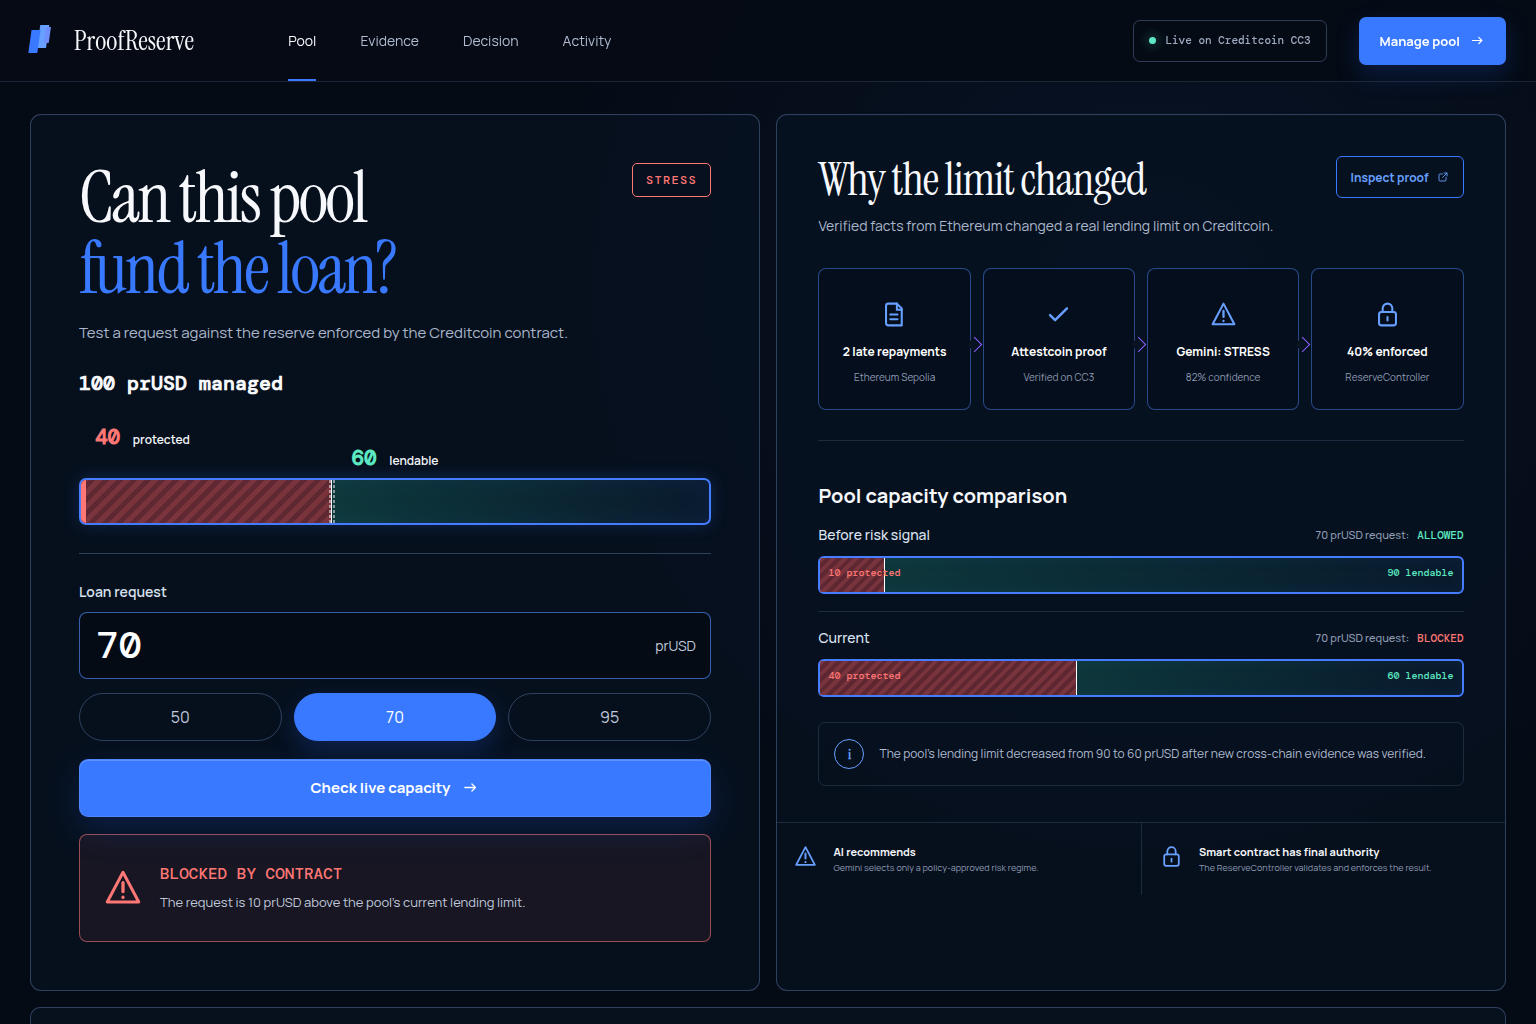
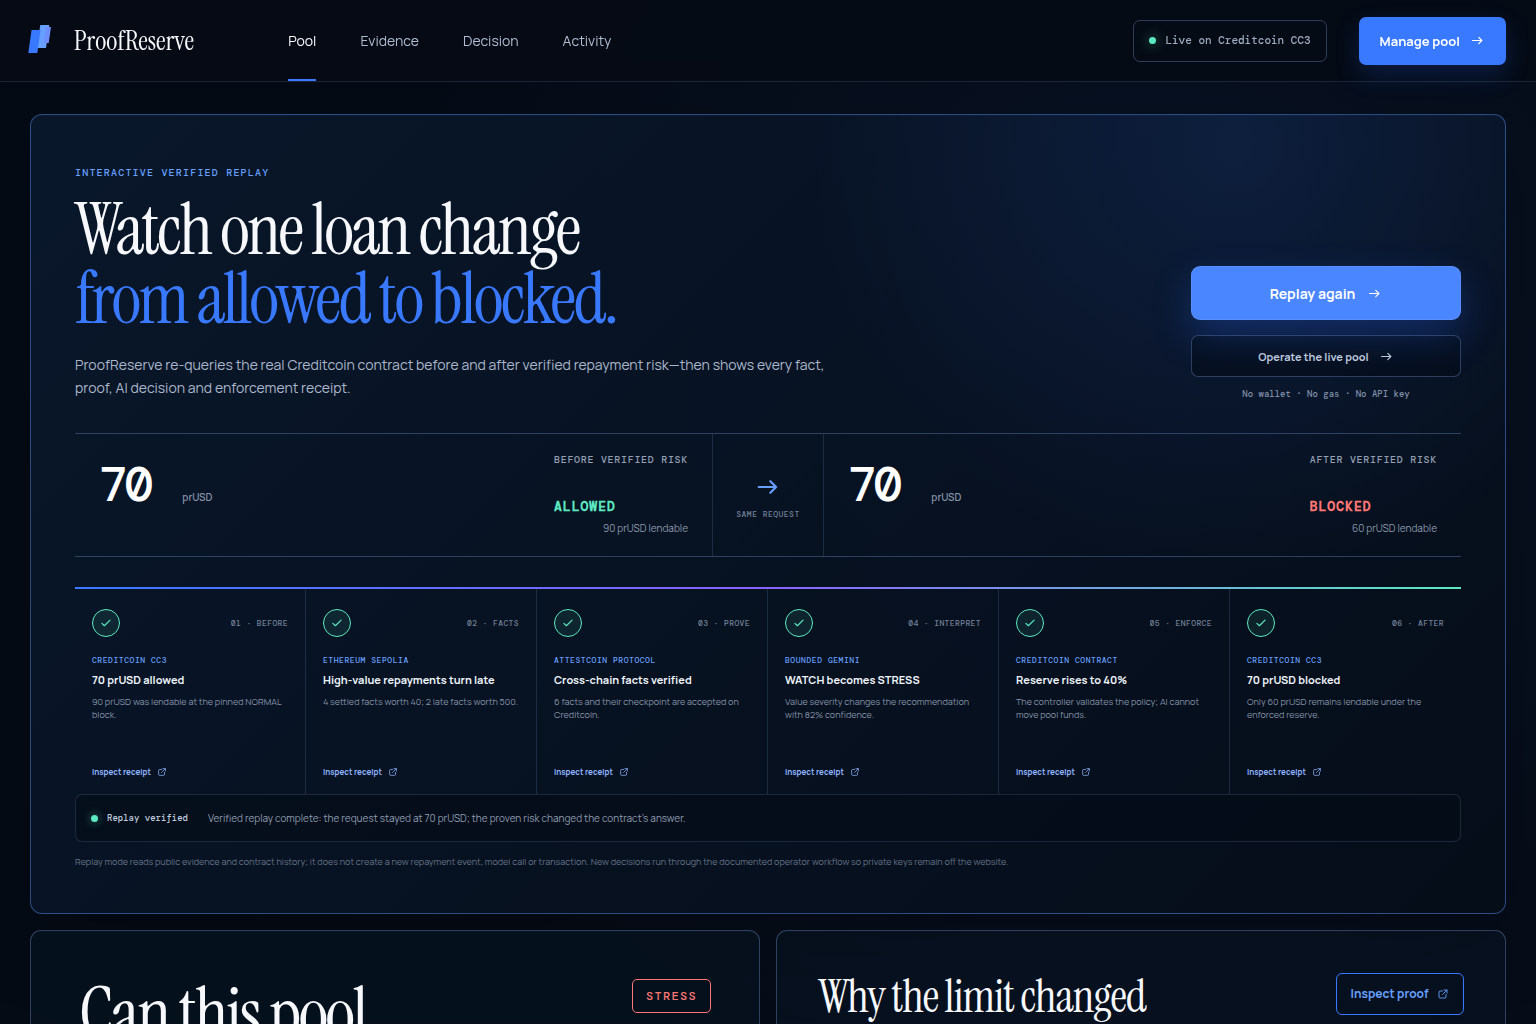
docs: refresh production replay screenshots

diff --git a/.thoughts/verification/2026-09-11-proofreserve-submission-audit.md b/.thoughts/verification/2026-09-11-proofreserve-submission-audit.md
@@ -94,9 +94,8 @@ The submission is not complete until the participant supplies and submits the re
 
 ### High-value follow-ups
 
-1. Replace the older dashboard screenshots under `docs/assets/screenshots/` with the new guided replay state before using them in the submission.
-2. Manually exercise the owner-wallet manager flow once in the production site, then cancel the test commitment and retain the transaction receipt.
-3. Add focused contract tests for uncovered branches, especially evidence decoder/rejection paths and pool/source edge cases. Current branch coverage is 28.09%.
+1. Manually exercise the owner-wallet manager flow once in the production site, then cancel the test commitment and retain the transaction receipt.
+2. Add focused contract tests for uncovered branches, especially evidence decoder/rejection paths and pool/source edge cases. Current branch coverage is 28.09%.
 
 ### Acceptable non-blocking risks
 
@@ -108,17 +107,17 @@ The submission is not complete until the participant supplies and submits the re
 
 ## Follow-ups
 
-1. Capture updated desktop/mobile screenshots.
-2. Record and upload the 90-second demo using the prepared script.
-3. Add the video URL to the submission draft and README.
-4. Supply truthful participant/team and eligibility fields.
-5. Perform a final production owner-wallet smoke test and cancel the commitment.
-6. Paste the prepared project fields into DoraHacks, review every URL in an incognito window, and submit.
-7. Optional after submission readiness: add branch-focused tests, CI, static analysis, and bundle splitting.
+1. Record and upload the 90-second demo using the prepared script.
+2. Add the video URL to the submission draft and README.
+3. Supply truthful participant/team and eligibility fields.
+4. Perform a final production owner-wallet smoke test and cancel the commitment.
+5. Paste the prepared project fields into DoraHacks, review every URL in an incognito window, and submit.
+6. Optional after submission readiness: add branch-focused tests, CI, static analysis, and bundle splitting.
 
 ## Evidence Log
 
 - Audited commit: `13f82279940c7fc0b86b1beae59e33cdf73bf48c`
+- Updated production screenshots: guided replay completed at 1536×1024 and 390×844 with no console warnings/errors or horizontal overflow
 - Public product: `https://proofreserve.vercel.app/app`
 - Repository: `https://github.com/Alike001/proofreserve`
[1 lines of base64/hex data omitted]
